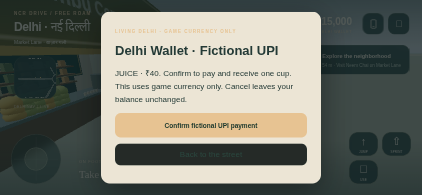
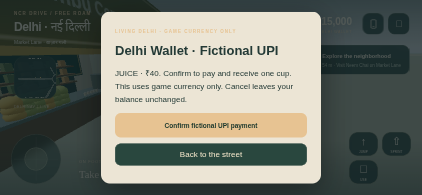
Finish market sign readability and record the completed production journey

Changed region(s): [[0.2464, 0.7077, 0.7393, 0.8615]]

diff --git a/src/world/MarketView.ts b/src/world/MarketView.ts
@@ -11,7 +11,7 @@ export class MarketView {
   const concrete=worldSurfaceMaterial('concrete'),wood=new THREE.MeshStandardMaterial({color:0x76583a,roughness:0.9}),metal=new THREE.MeshStandardMaterial({color:0x7b8b87,metalness:0.7,roughness:0.35});
   const stone=new THREE.MeshStandardMaterial({color:0xcebea2,roughness:0.95}),leaf=new THREE.MeshStandardMaterial({color:0x506c42,roughness:1}),dark=new THREE.MeshStandardMaterial({color:0x344a43,roughness:0.9});
   const add=(m:THREE.Material,x:number,y:number,z:number,w:number,h:number,d:number,g:THREE.BufferGeometry=box)=>{const o=new THREE.Mesh(g,m);o.position.set(x,y,z);o.scale.set(w,h,d);o.castShadow=o.receiveShadow=true;this.group.add(o);return o;};
-  const label=(text:string,x:number,y:number,z:number,w:number,bg='#264e43')=>{const o=new THREE.Mesh(new THREE.PlaneGeometry(w,w/5),new THREE.MeshStandardMaterial({map:signTexture(text,undefined,bg),roughness:0.9,side:THREE.DoubleSide}));o.position.set(x,y,z);this.group.add(o);};
+  const label=(text:string,x:number,y:number,z:number,w:number,bg='#264e43')=>{const o=new THREE.Mesh(new THREE.PlaneGeometry(w,w/5),new THREE.MeshStandardMaterial({map:signTexture(text,undefined,bg),roughness:0.9,side:THREE.FrontSide}));o.position.set(x,y,z);const reverse=o.clone();reverse.rotation.y=Math.PI;reverse.position.z-=0.01;this.group.add(o,reverse);};
   add(concrete,-255,0.005,-12.7,250,0.06,7.4);add(concrete,-255,0.005,12.7,250,0.06,7.4);
   const bay=marketParkingBay,parkingPaint=new THREE.MeshBasicMaterial({color:0xd4bd82});
   for(const dx of [-bay.width/2,bay.width/2])add(parkingPaint,bay.x+dx,0.05,bay.z,0.1,0.02,bay.depth);

diff --git a/docs/HANDOFF.md b/docs/HANDOFF.md
@@ -37,3 +37,5 @@ Receipt checkpoint `cb526af9ccc6fc340a0f8602fa587a61a6bdc07d` is published. Loca
 Focused receipt/touch/capture PASS atcb526af runtime: zero errors,477 geometries/114 textures/11 actors in all three warmed visits; Noida driver retained locally, no duplicate actor on reentry. Fresh eye/street/seated/interior and portrait/landscape screenshots inspected, six-frame10.81s actual software capture encoded with original timing under `docs/evidence/`. Secondary modal button had low contrast; queued a CSS-only correction. Do not rebuild dist while the ordinary-input production rerun is active. After that run, build and verify final modal contrast. No gameplay source changed aftercb526af.
 
 CIcb526af passed retained browser/production/regional/focused receipt/touch checks, then the ordinary harness failed because it demanded an exact shop coordinate while an NPC occupied it—even though the live Nimbu interaction prompt was available at(-217.4,-11.9). Shop approaches now require the actual named-business prompt, rather than walking through a customer to a fixed point. Clearance remains enforced; no collision, minimum-spacing or reward assertion was removed. Exact route/seat/crossing waypoints remain checked separately. The currently running local ordinary attempt uses076ef4d harness; the next CI uses this interaction-aware approach.
+
+Complete local ordinary-input receipt loop PASS on the frozen gameplay bundle: CP→market127.734m/75.911wallseconds, off-lane parking(-169.4,-12.8), cancel/buy20 chai, sit/consume, paan/juice, goods task, crossing, occupied takeover, direct160.1m/59.259wallseconds delivery, DelhiOS receipt,650 once, wallet15630/inventory0/trust1 reload, zero browser/asset errors. Functional software timing, not device pacing. Gameplay JS was unchanged by the subsequent CSS build (SHA25690016bad59905a4b8e69d4ebdfecc7752c25cc82ba67627a4f9eb94a7f0d5a78). Final portrait/landscape real touch modal contrast/cancel PASS; refreshed images/JSON in docs/evidence. Review also found mirrored reverse sign text: each side now has its own front-facing print; final controlled visual/preset/disposal rerun includes a rear sign camera. Latest60 tests/lint/build PASS. No road, collision, handling or mission logic changed in this sign correction.
